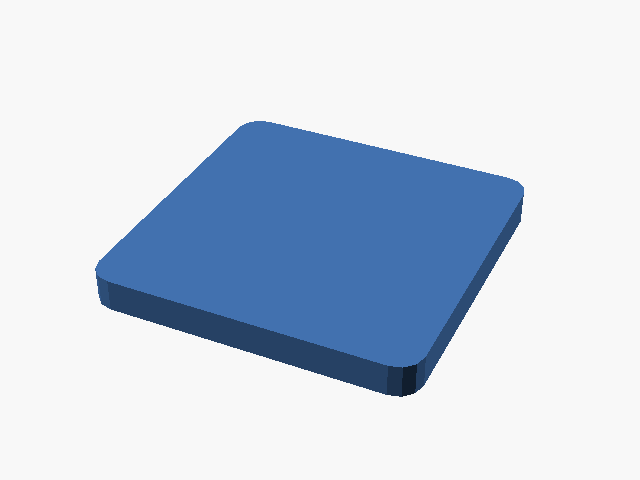
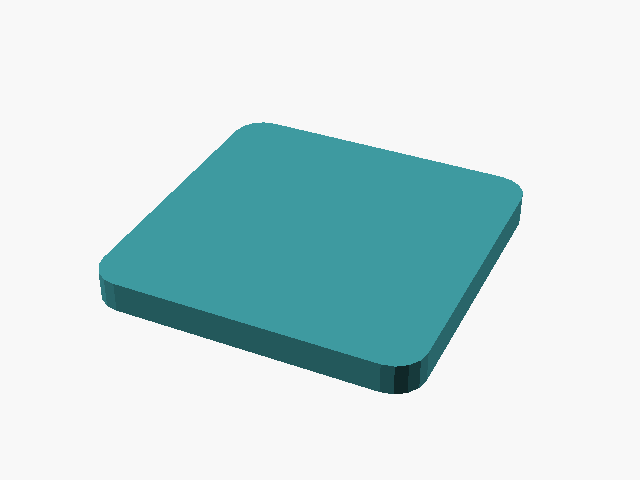
Flat plate: default to 42 x 42 mm with 4 mm corners, one Gridfinity unit
The plate defaulted to 40 x 40 mm with 3 mm corners, so a plate on a
Gridfinity base or baseplate was a little small with different corners.
Both the catalogue defaults and basics_plate()'s own defaults change, so
the CLI, a native OpenSCAD and the web app agree. Golden dimensions,
the gallery image and the README table are regenerated; the golden diff
is the plate's two entries only. Saved benches and presets keep the
sizes they were saved with.

Changed region(s): [[0.125, 0.25, 0.8438, 0.8438]]

diff --git a/README.md b/README.md
@@ -222,7 +222,7 @@ LEGO-compatible fasteners print poorly, so print real ones or use the finished B
 | ![Universal base](docs/img/deckmate_universal.png)<br>Universal base | DeckMate / Mechanism | exact | CC-BY-NC-4.0 | [Mechanism's Deck Mate Universal STL — the manufacturer's own model, imported unmodified. CC BY-NC 4.0 — see README "Licensing".](https://getmechanism.com/pages/digital-files) | Mechanism's 56.7 x 28.4 x 3mm base plate: hole pattern down as "bot", adhesive face up as "mount". Stack an Outie on "bot" with the screwed joint (no flange needed). Prints flat either way up. |
 | ![Beam](docs/img/bitbeam_beam.png)<br>Beam | BitBeam | exact | BSD-3-Clause | [bitbeam-lib (ondratu, BSD-3-Clause), vendored; dimensions per bitbeam.cc](https://github.com/ondratu/bitbeam-lib) | Print flat, no supports. 4.8mm holes on an 8mm pitch through top and bottom, and through the sides with side_holes on. LEGO Technic-compatible. |
 | ![Plate](docs/img/bitbeam_plate.png)<br>Plate | BitBeam | exact | BSD-3-Clause | [bitbeam-lib (ondratu, BSD-3-Clause), vendored; dimensions per bitbeam.cc. Nobody publishes a model of a plate like this, so there is no reference geometry to check against.](https://github.com/ondratu/bitbeam-lib) | Flat on the bed, no supports. Every hole is a real BitBeam hole, top and side. Side holes need height 1 (8mm); go thinner and turn side_holes off. Sizes are in 8mm units. |
-| ![Flat plate](docs/img/basics_plate.png)<br>Flat plate | Basics | exact | MIT | Generic geometry, not tied to an external spec | Flat on the bed, no supports. Anchors on all six faces. |
+| ![Flat plate](docs/img/basics_plate.png)<br>Flat plate | Basics | exact | MIT | Generic geometry, not tied to an external spec | Flat on the bed, no supports. Anchors on all six faces. 42 x 42mm with 4mm corners by default — one Gridfinity unit, so it lines up with a Gridfinity base or baseplate. |
 | ![Round post](docs/img/basics_post.png)<br>Round post | Basics | exact | MIT | Generic geometry, not tied to an external spec | Stands on its flat end ("bot"), no supports. |
 | ![Dovetail rail](docs/img/basics_dovetail_rail.png)<br>Dovetail rail | Basics | exact | MIT | Generic geometry, not tied to an external spec | Tip down, no supports. A generic dovetail, not DeckMate-compatible — import Mechanism's own model for that. |
 | ![Dovetail channel](docs/img/basics_dovetail_channel.png)<br>Dovetail channel | Basics | exact | MIT | Generic geometry, not tied to an external spec | Mouth down, no supports. Mates with the dovetail rail. |
